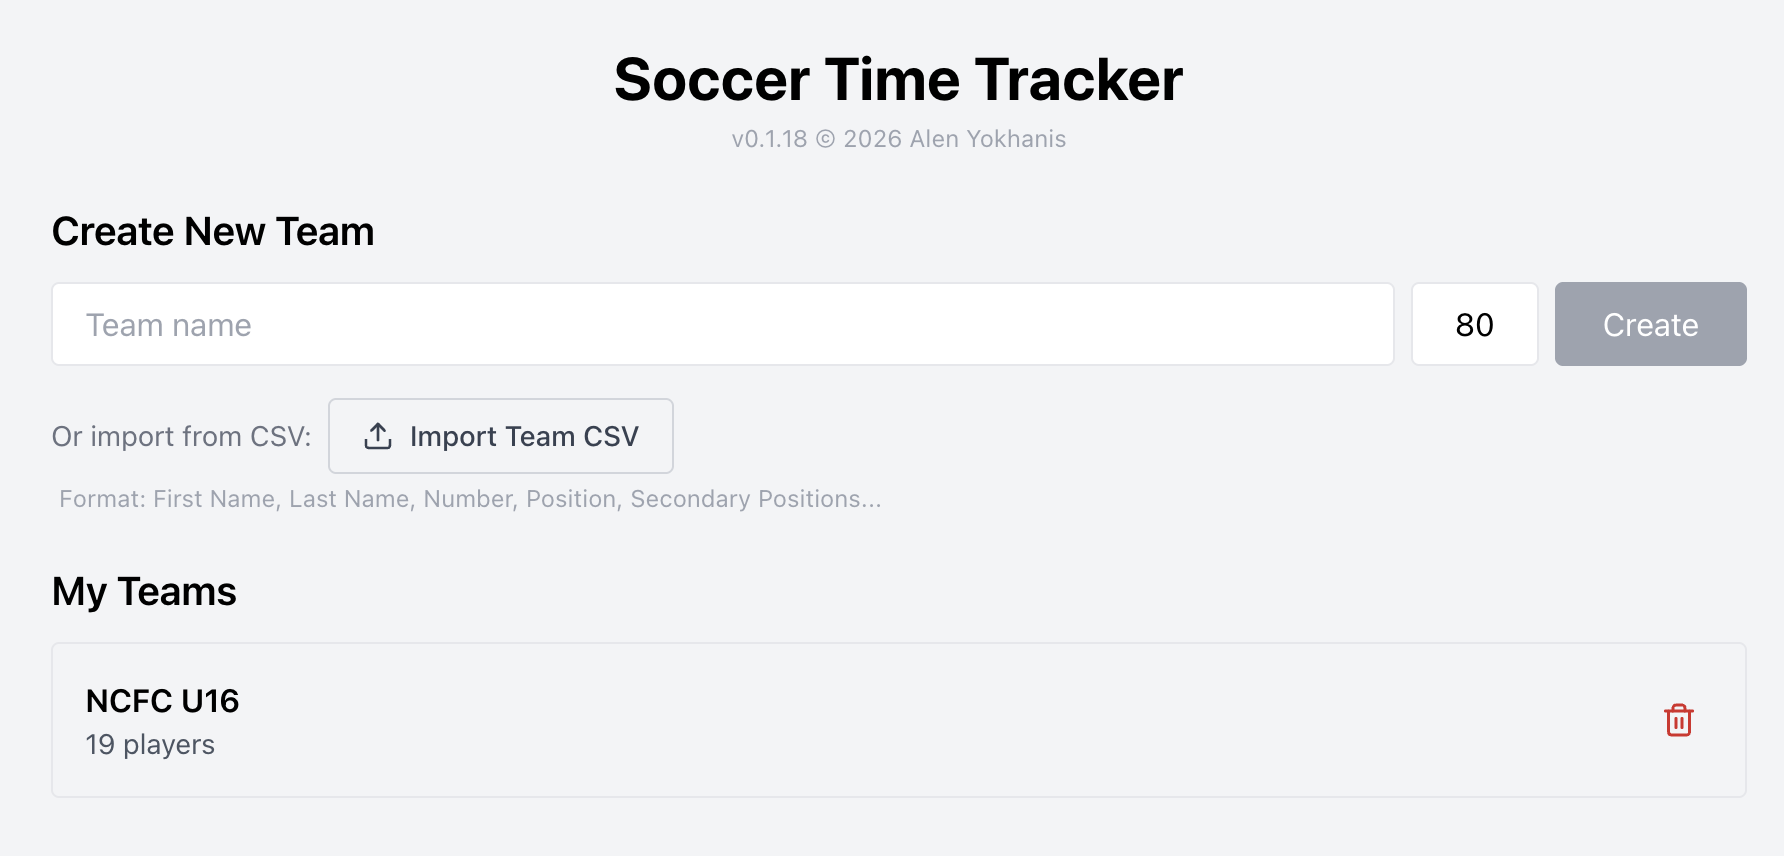
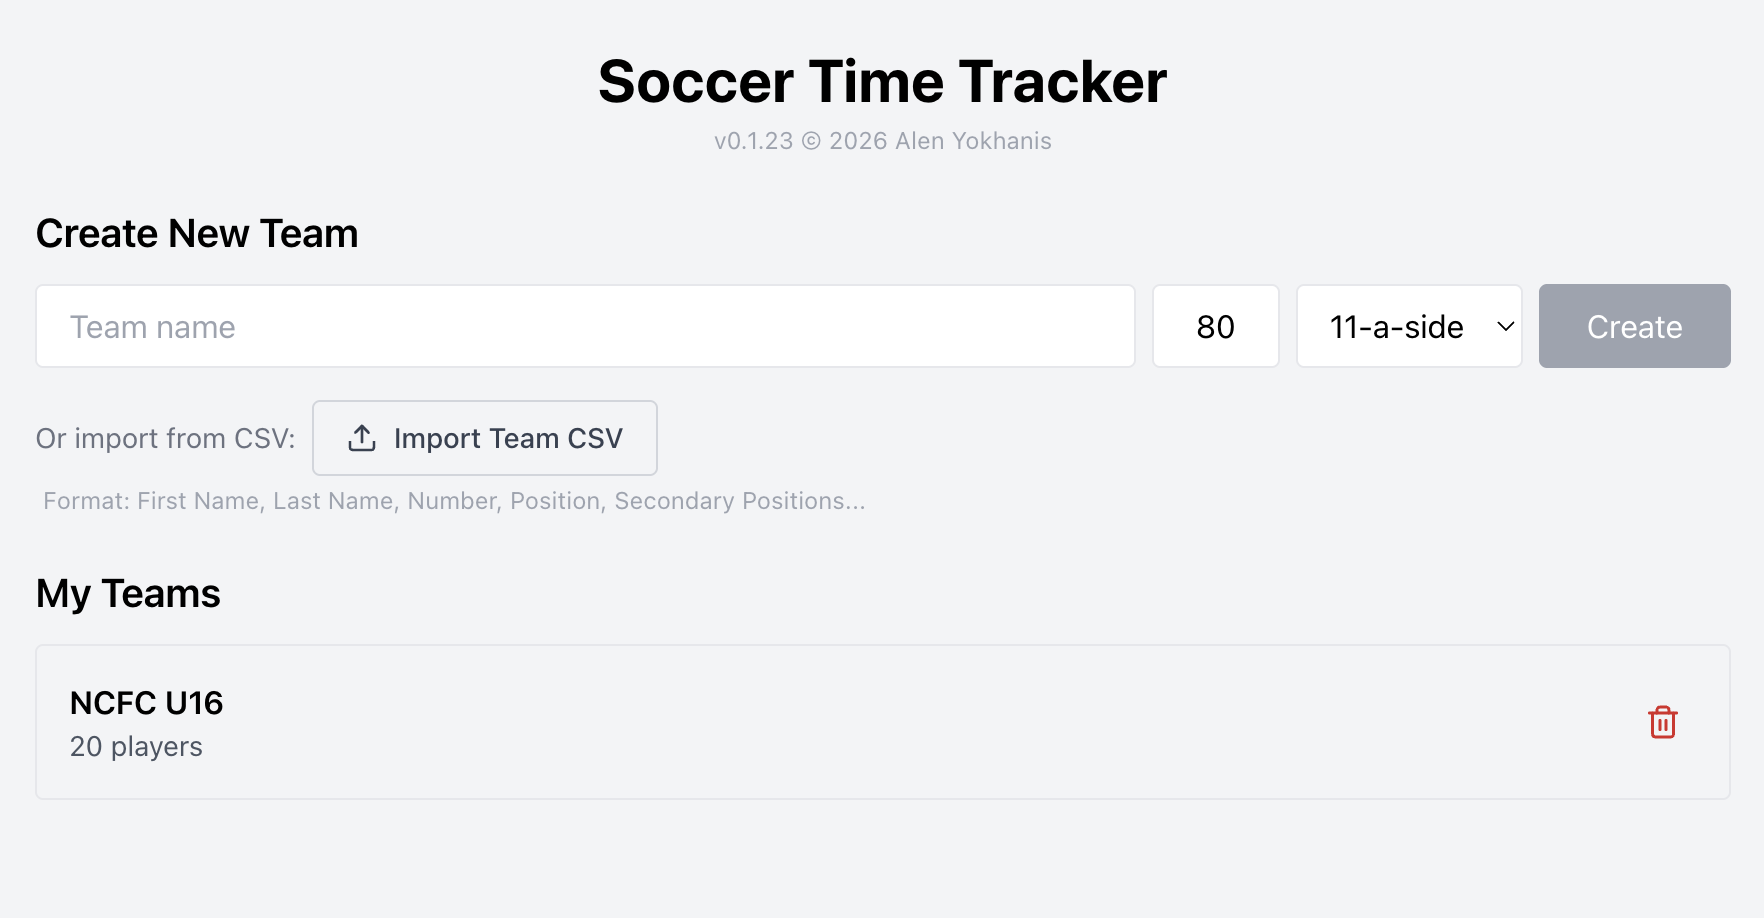
Add 9 and 11 a side selector and formation;

diff --git a/src/App.tsx b/src/App.tsx
@@ -13,7 +13,10 @@ import AccessGate from './AccessGate';
 import './index.css';
 
 export const POSITIONS = ['GK', 'CB', 'RB', 'LB', 'DM', 'CM', 'RM', 'LM', 'AM', 'LW', 'RW', 'CF'];
-const FORMATIONS = ['1-4-4-2', '1-4-3-3'];
+const FORMATIONS_BY_SIDE: Record<9 | 11, string[]> = {
+  11: ['1-4-4-2', '1-4-3-3'],
+  9:  ['1-3-3-2', '1-4-3-1'],
+};
 
 const FORMATION_LAYOUTS = {
   '1-4-4-2': {
@@ -41,6 +44,28 @@ const FORMATION_LAYOUTS = {
     RW:  { x: 85, y: 18 },
     CF:  { x: 50, y: 12 },
     LW:  { x: 15, y: 18 }
+  },
+  '1-3-3-2': {
+    GK:  { x: 50, y: 88 },
+    LB:  { x: 25, y: 63 },
+    CB:  { x: 50, y: 63 },
+    RB:  { x: 75, y: 63 },
+    LM:  { x: 20, y: 37 },
+    CM:  { x: 50, y: 37 },
+    RM:  { x: 80, y: 37 },
+    CF:  { x: 35, y: 12 },
+    CF2: { x: 65, y: 12 }
+  },
+  '1-4-3-1': {
+    GK:  { x: 50, y: 88 },
+    LB:  { x: 15, y: 63 },
+    CB:  { x: 38, y: 63 },
+    CB2: { x: 62, y: 63 },
+    RB:  { x: 85, y: 63 },
+    LM:  { x: 20, y: 37 },
+    CM:  { x: 50, y: 37 },
+    RM:  { x: 80, y: 37 },
+    CF:  { x: 50, y: 12 }
   }
 };
 
@@ -54,6 +79,7 @@ export default function SoccerTimeTracker() {
   
   const [teamNameInput, setTeamNameInput] = useState('');
   const [teamDefaultDuration, setTeamDefaultDuration] = useState(80);
+  const [teamPlayersPerSide, setTeamPlayersPerSide] = useState<9 | 11>(11);
   const [playerFirstName, setPlayerFirstName] = useState('');
   const [playerLastName, setPlayerLastName] = useState('');
   const [playerNumber, setPlayerNumber] = useState('');
@@ -254,11 +280,13 @@ export default function SoccerTimeTracker() {
         id: Date.now().toString(),
         name: teamNameInput,
         defaultGameDuration: teamDefaultDuration,
+        playersPerSide: teamPlayersPerSide,
         players: []
       };
       saveTeam(team);
       setCurrentTeam(team);
       setTeamNameInput('');
+      setTeamPlayersPerSide(11);
       setView('team-detail');
       cancelEditing();
     }
@@ -314,12 +342,14 @@ export default function SoccerTimeTracker() {
           id: Date.now().toString(),
           name: teamName,
           defaultGameDuration: teamDefaultDuration,
+          playersPerSide: teamPlayersPerSide,
           players
         };
         saveTeam(newTeam);
         setCurrentTeam(newTeam);
         setTeamNameInput('');
         setTeamDefaultDuration(80);
+        setTeamPlayersPerSide(11);
         setView('team-detail');
         cancelEditing();
       } else {
@@ -953,7 +983,16 @@ export default function SoccerTimeTracker() {
             className="w-16 px-2 py-2 border rounded text-center"
             title="Default Game Duration (1-90 mins)"
           />
-          <button 
+          <select
+            value={teamPlayersPerSide}
+            onChange={(e) => setTeamPlayersPerSide(Number(e.target.value) as 9 | 11)}
+            className="px-3 py-2 border rounded"
+            title="Players per side"
+          >
+            <option value={11}>11-a-side</option>
+            <option value={9}>9-a-side</option>
+          </select>
+          <button
             onClick={handleCreateTeam}
             disabled={!teamNameInput.trim() || teamDefaultDuration <= 0}
             className={`px-6 py-2 text-white rounded ${!teamNameInput.trim() || teamDefaultDuration <= 0 ? 'bg-gray-400 cursor-not-allowed' : 'bg-blue-600 hover:bg-blue-700'}`}
@@ -1032,7 +1071,10 @@ export default function SoccerTimeTracker() {
         </div>
       </div>
       
-      <h1 className="text-3xl font-bold mb-6">{currentTeam.name}</h1>
+      <h1 className="text-3xl font-bold mb-6">
+        {currentTeam.name}
+        <span className="text-lg font-normal text-gray-500 ml-2">({currentTeam.playersPerSide ?? 11}-a-side)</span>
+      </h1>
 
       <div className="mb-6" ref={addPlayerSectionRef}>
         <div className="flex items-center gap-3 mb-3">
@@ -1185,7 +1227,12 @@ export default function SoccerTimeTracker() {
 
       {currentTeam && currentTeam.players.length > 0 && (
         <button
-          onClick={() => setView('formation')}
+          onClick={() => {
+            const side = currentTeam.playersPerSide ?? 11;
+            setFormation(FORMATIONS_BY_SIDE[side][0]);
+            setFormationAssignments({});
+            setView('formation');
+          }}
           className="w-full py-3 bg-blue-600 text-white rounded-lg hover:bg-blue-700 font-semibold"
         >
           Set Formation & Start Game
@@ -1236,7 +1283,7 @@ export default function SoccerTimeTracker() {
               }}
               className="px-4 py-2 border rounded"
             >
-              {FORMATIONS.map(f => (
+              {FORMATIONS_BY_SIDE[currentTeam?.playersPerSide ?? 11].map(f => (
                 <option key={f} value={f}>{f}</option>
               ))}
             </select>

diff --git a/src/App.test.tsx b/src/App.test.tsx
@@ -147,7 +147,7 @@ describe('SoccerTimeTracker Substitution Tests', () => {
     // Bench player (#99) should now be on the field (not in substitutes section)
     // Field player (#1) should now be in the substitutes section
     
-    const substitutesSection = screen.getByText('Substitutes - Drag to pitch').closest('div')?.nextElementSibling;
+    const substitutesSection = screen.getByTestId('substitutes-container');
     expect(substitutesSection).not.toHaveTextContent('#99');
     expect(substitutesSection).toHaveTextContent('#1');
   });

diff --git a/src/GameLive.tsx b/src/GameLive.tsx
@@ -306,6 +306,7 @@ export const GameLive: React.FC<GameLiveProps> = ({
             </select>
           </div>
           <div
+            data-testid="substitutes-container"
             className={`flex flex-wrap gap-3 p-3 border-2 border-dashed rounded-lg min-h-[200px] transition-colors duration-200 ${dragOverTarget === 'bench' ? 'bg-blue-50 border-blue-500' : ''}`}
             onDragOver={handleDragOver}
             onDragEnter={(e) => handleDragEnterZone(e, 'bench')}

diff --git a/src/types.ts b/src/types.ts
@@ -13,6 +13,7 @@ export interface Team {
   id: string;
   name: string;
   defaultGameDuration?: number;
+  playersPerSide?: 9 | 11;
   players: Player[];
 }
 

diff --git a/public/USER_MANUAL.md b/public/USER_MANUAL.md
@@ -11,6 +11,7 @@ Welcome to the Soccer Time Tracker! This application helps you manage your socce
     *   [Adding Players](#adding-players)
     *   [Editing Players](#editing-players)
     *   [Player Availability](#player-availability)
+    *   [Borrowing a Player](#borrowing-a-player)
 4.  [Starting a Game](#starting-a-game)
     *   [Formation Setup](#formation-setup)
     *   [Auto-Assign Players](#auto-assign-players)
@@ -43,12 +44,16 @@ Once authenticated, you will see the **Home Screen**. This is your central hub f
 1.  On the Home Screen, locate the **Create New Team** section.
 2.  Enter a **Team Name** (e.g., "Tigers FC").
 3.  Enter a **Default Duration** for games in minutes (e.g., "80").
-4.  Click the **Create** button.
+4.  Select **11-a-side** or **9-a-side** from the dropdown (defaults to 11-a-side).
+5.  Click the **Create** button.
+
+> The players-per-side setting determines which formations are available when you set up a game. It is also displayed next to the team name on the team page.
 
 ### Importing a Team
 If you have a CSV file with your roster, you can import it directly.
-1.  Click the **Import Team CSV** button.
-2.  Select your CSV file.
+1.  Select **11-a-side** or **9-a-side** from the dropdown before importing.
+2.  Click the **Import Team CSV** button.
+3.  Select your CSV file.
     *   **CSV Format:** `First Name, Last Name, Number, Position, Secondary Positions...`
     *   *Example:* `John, Doe, 10, CF, RW;LW`
 
@@ -56,9 +61,9 @@ If you have a CSV file with your roster, you can import it directly.
 
 ## 3. Managing Players
 
-Click on a team name from the "My Teams" list to enter the **Team Detail View**.
+Click on a team name from the "My Teams" list to enter the **Team Detail View**. The team name is shown with its players-per-side setting (e.g., *NCFC U16 (9-a-side)*). From here you can add, edit, and delete players.
 
-![Add Player screen](./images/add-player.png)
+![Team Detail screen](./images/add-player.png)
 
 ### Adding Players
 1.  Fill in the **First Name**, **Last Name**, and **Number**.
@@ -78,16 +83,29 @@ If a player is absent for a game:
 2.  The player will be grayed out and marked as `(Unavailable)`.
 3.  They will not be included in auto-assignments for the next game.
 
+### Borrowing a Player
+If you need a temporary player for a single game (e.g., a guest from another team):
+1.  Click the **Borrow Player** button at the top of the Team Detail View — it highlights in orange to indicate you are adding a temporary player.
+2.  Fill in the borrowed player's details and click **Add Borrowed**.
+3.  The borrowed player appears highlighted in orange in the player list so they are easy to identify at a glance.
+4.  Borrowed players are automatically removed from the squad after the game ends.
+
+![Borrow Player button highlighted in orange](./images/borrow-player.png)
+
 ---
 
 ## 4. Starting a Game
 
-From the Team Detail View, click **Set Formation & Start Game**.
+Once players have been added, the **Set Formation & Start Game** button will appear at the bottom of the Team Detail View. Any borrowed players are shown highlighted in a different colour. Click the button to proceed to formation setup.
+
+![Borrowed player highlighted and Set Formation & Start Game button active](./images/goto-set-formation-start-game.png)
 
 ![Formation Setup screen](./images/formation-setup.png)
 
 ### Formation Setup
-1.  **Select Formation:** Choose between `1-4-4-2` or `1-4-3-3` from the dropdown.
+1.  **Select Formation:** Choose from the available formations for your team type:
+    *   **11-a-side:** `1-4-4-2` or `1-4-3-3`
+    *   **9-a-side:** `1-3-3-2` or `1-4-3-1`
 2.  **Assign Players:**
     *   **Drag and Drop:** Drag players from the "Available Players" list onto a position on the field.
     *   **Auto-Assign:** Click **Auto-Assign Players** to automatically fill the field based on player positions.
